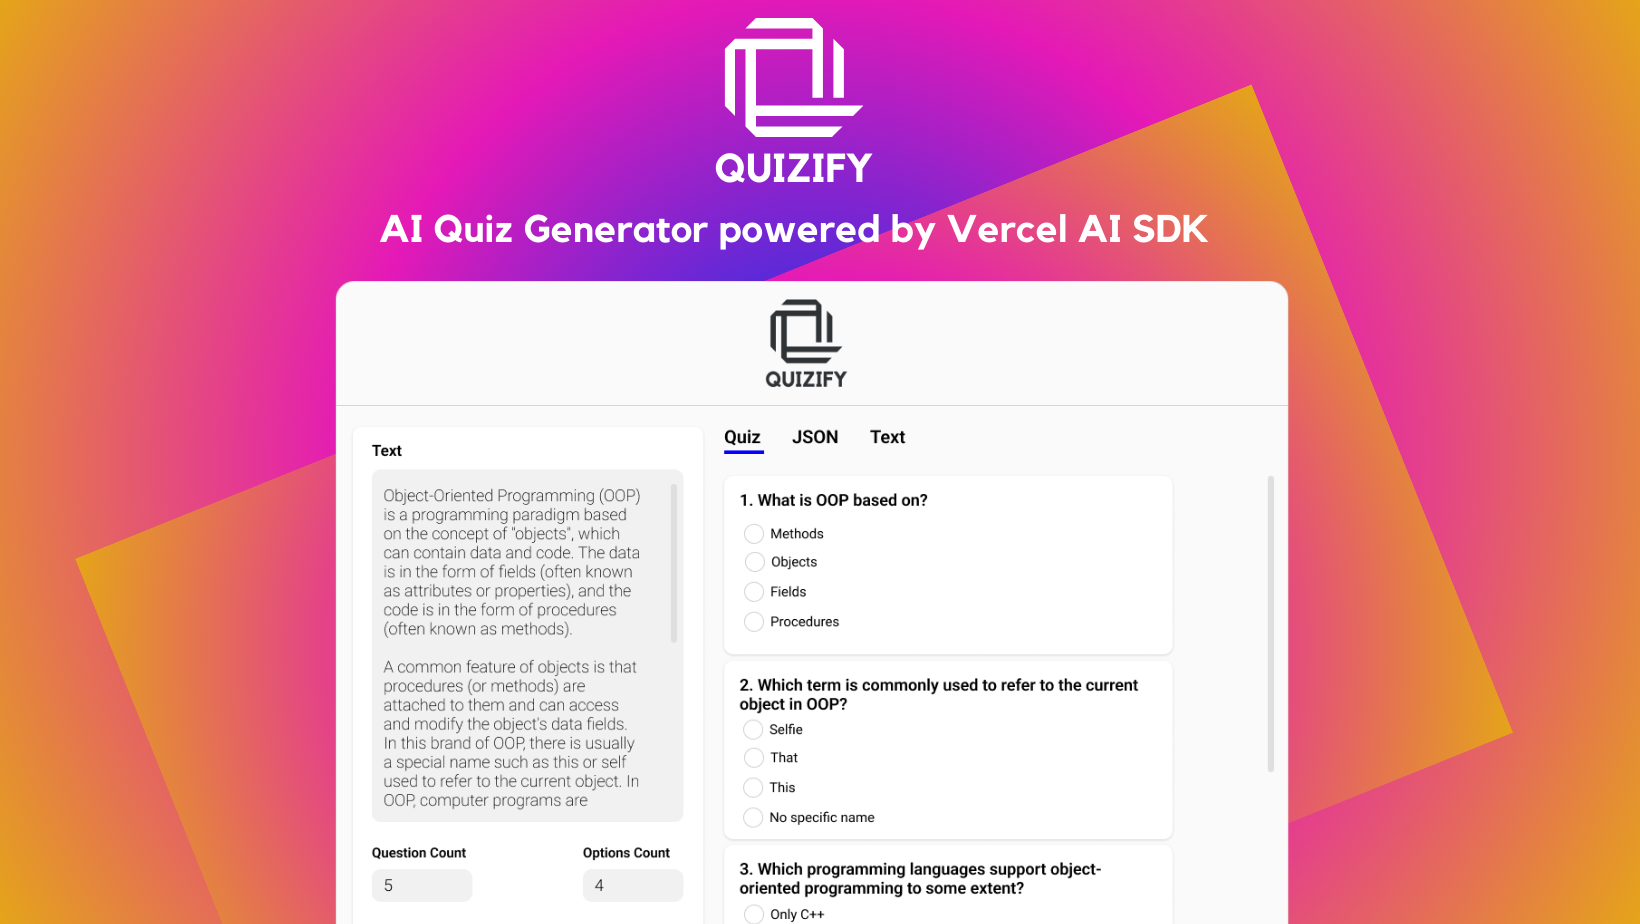
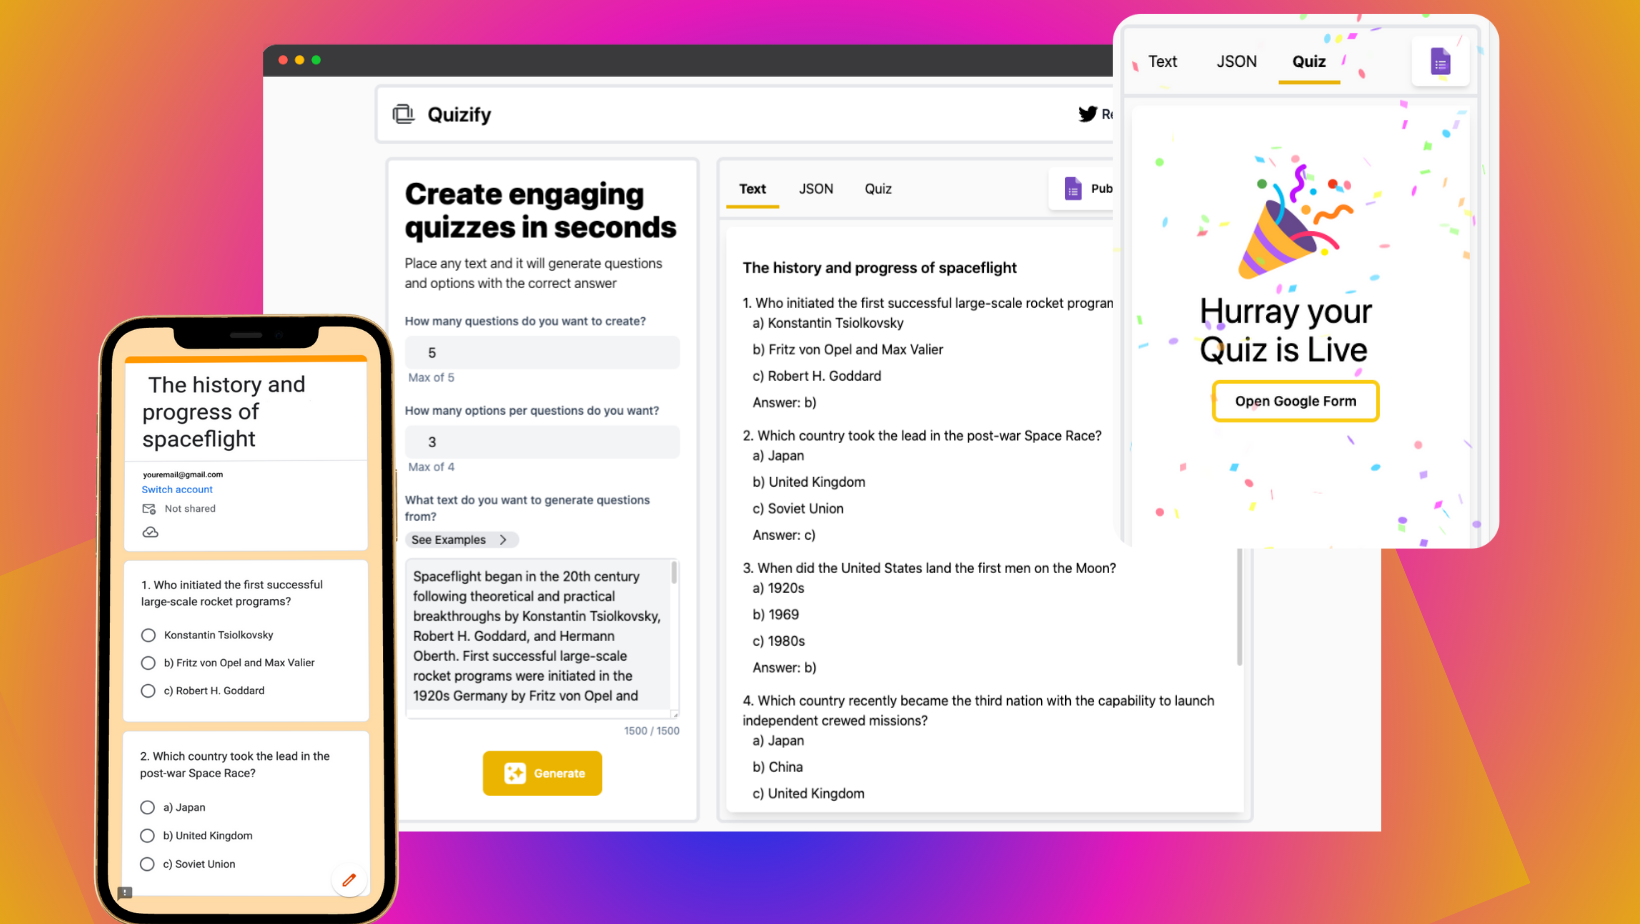
Update marketing image, Form flow improvement

diff --git a/src/routes/+page.svelte b/src/routes/+page.svelte
@@ -3,6 +3,7 @@
   import AiEditorIcon from '$lib/images/ai-editor.svg?raw';
   import TadaIcon from '$lib/images/tada.png';
   import QuizIcon from '$lib/images/quiz.svg?raw';
+  import CopyIcon from '$lib/images/copy.svg?raw';
   import CodeMirror from 'svelte-codemirror-editor';
   import { javascript } from '@codemirror/lang-javascript';
   import { useCompletion } from 'ai/svelte';
@@ -50,9 +51,9 @@
   ];
 
   let templates: Array<Templates> = [
-    { id: TemplateId.oop, text: 'About OOP' },
-    { id: TemplateId.elonMusk, text: 'Knowledge of Elon Musk' },
     { id: TemplateId.spaceFlight, text: 'About Spaceflight' },
+    { id: TemplateId.oop, text: 'On OOP' },
+    { id: TemplateId.elonMusk, text: 'Elon Musk' },
     { id: TemplateId.election, text: 'Nigerian 2023 Election' },
     { id: TemplateId.chatGPT, text: 'ChatGPT - AI chat bot' },
   ];
@@ -174,7 +175,7 @@
         <TabContent value={tabs[0].value} index={currentTab}>
           <div
             bind:this={rawDiv}
-            class="container w-full rounded-lg bg-white p-5 shadow-lg"
+            class="container w-full rounded-lg bg-white p-5 shadow-lg relative"
           >
             {#if !rawText.length || !rawText[0].length}
               <p class="font-sans font-bold">Your Generated output:</p>
@@ -188,18 +189,42 @@
                   <p class="font-sans ml-3 mb-2">{text}</p>
                 {/if}
               {/each}
+
+              {#if !$isLoading}
+                <!-- Copy Button -->
+                <button
+                  class="absolute top-2 right-1 p-2 rounded-lg border border-gray-200 hover:bg-gray-200 hover:shadow-2xl transition-shadow ease-in delay-100 flex items-center"
+                  type="button"
+                  on:click={() => {}}
+                >
+                  {@html CopyIcon}
+                  <span>Copy</span>
+                </button>
+              {/if}
             {/if}
           </div>
         </TabContent>
 
         <!-- JSON Tab -->
         <TabContent value={tabs[1].value} index={currentTab}>
-          <CodeMirror
-            value={JSON.stringify(sheetData, null, 2)}
-            lang={javascript()}
-            class="codemirror w-full px-5"
-            editable={false}
-          />
+          <div class="relative">
+            <CodeMirror
+              value={JSON.stringify(sheetData, null, 2)}
+              lang={javascript()}
+              class="codemirror w-full px-5"
+              editable={false}
+            />
+
+            <!-- Copy Button -->
+            <button
+              class="absolute top-2 right-1 p-2 rounded-lg border border-gray-200 hover:bg-gray-200 hover:shadow-2xl transition-shadow ease-in delay-100 flex items-center"
+              type="button"
+              on:click={() => {}}
+            >
+              {@html CopyIcon}
+              <span>Copy</span>
+            </button>
+          </div>
         </TabContent>
 
         <!-- Quizes Tab -->
@@ -208,7 +233,7 @@
             {#if $form.info.title && $form.formId}
               <div class="w-2/3 m-auto flex flex-col items-center mt-10">
                 <img src={TadaIcon} alt="tada icon" width="120" height="120" />
-                <p class="font-sans text-4xl my-3">Hurray your quiz is live</p>
+                <p class="font-sans text-4xl my-3">Hurray your Quiz is Live</p>
                 <a
                   href="https://docs.google.com/forms/d/{$form.formId}"
                   target="_
@@ -237,7 +262,7 @@
 <!-- Mobile Button -->
 <div class="absolute right-5 bottom-5 md:hidden">
   <button
-    class="bg-yellow-500 hover:bg-yellow-700 px-5 py-3 text-sm leading-5 rounded-lg font-semibold text-white flex items-center"
+    class="bg-yellow-500 hover:bg-yellow-700 px-5 py-3 text-sm leading-5 rounded-lg font-semibold text-white flex items-center hover:shadow-2xl transition-shadow ease-in delay-100"
     on:click={() => (openAiEditor = !openAiEditor)}
   >
     {@html AiEditorIcon}

diff --git a/src/routes/Sidebar.svelte b/src/routes/Sidebar.svelte
@@ -1,5 +1,7 @@
 <script lang="ts">
   import AiIcon from '$lib/images/ai.svg?raw';
+  import ArrowRightcon from '$lib/images/arrow-right.svg?raw';
+  import ArrowDownIcon from '$lib/images/arrow-down.svg?raw';
   import type { TemplateId, Templates } from '$lib/types/template';
   import { Circle3 } from 'svelte-loading-spinners';
 
@@ -12,6 +14,8 @@
   export let handleTemplateChange = () => {};
   export let isLoading = false;
   export let hideOnMobile = false;
+
+  let showExamples = false;
 
   $: text = text.length > 1500 ? text.slice(0, 1500) : text;
   $: questions = questions > 5 ? 5 : questions;
@@ -85,6 +89,38 @@
       <p class="mb-2 text-sm font-medium text-slate-700">
         What text do you want to generate questions from?
       </p>
+      <div class="mb-3">
+        <button
+          class="px-2 rounded-full bg-gray-200 w-fit text-sm flex items-center"
+          on:click={() => (showExamples = !showExamples)}
+          type="button"
+        >
+          <span class="mr-3">See Examples</span>
+          {#if showExamples}
+            {@html ArrowDownIcon}
+          {:else}
+            {@html ArrowRightcon}
+          {/if}
+        </button>
+        {#if showExamples}
+          <div class="flex mt-2 w-full justify-start flex-wrap">
+            {#each templates as template}
+              <button
+                class="{templateId === template.id &&
+                  'bg-gray-200'} px-2 py-3 mr-2 rounded-lg w-fit mb-2 border border-gray-200 hover:bg-gray-200 text-sm flex items-center"
+                on:click={() => {
+                  templateId = template.id;
+                  handleTemplateChange();
+                }}
+                type="button"
+              >
+                {template.text}
+              </button>
+            {/each}
+          </div>
+        {/if}
+      </div>
+
       <textarea
         bind:value={text}
         id="sidebar-text"
@@ -102,7 +138,7 @@
         id="generate-form"
         class="{isLoading
           ? 'bg-white border-2 border-gray-300'
-          : 'bg-yellow-500'} hover:bg-yellow-700 px-5 py-2 text-sm leading-5 rounded-lg font-semibold text-white flex items-center"
+          : 'bg-yellow-500'} px-5 py-2 text-sm leading-5 rounded-lg font-semibold text-white flex items-center hover:shadow-2xl transition-shadow ease-in delay-100"
         disabled={isLoading}
         type="submit"
       >

diff --git a/src/routes/GoogleForm.svelte b/src/routes/GoogleForm.svelte
@@ -4,6 +4,7 @@
   import { form, isExporting } from '$lib/stores/forms';
   import { getPostBodyFromQuestion } from '$lib/utils/googleapi';
   import type { QData } from '$lib/types/questions';
+  import { goto } from '$app/navigation';
 
   export let title = 'Some random title';
   export let questions: Array<QData>;
@@ -12,6 +13,7 @@
   let client;
   let access_token = '';
   let auth_token = { access_token: '' };
+  let isFormCreated = false;
 
   // Set the scopes for the API request
   const scopes = [
@@ -95,6 +97,15 @@
   }
 
   async function connectToGoogle() {
+    if (isFormCreated) {
+      const url = `https://docs.google.com/forms/d/${$form.formId}`;
+      if (window !== null) {
+        window?.open(url, '_blank')?.focus();
+      } else {
+        goto(url);
+      }
+      return;
+    }
     if (!questions.length) {
       alert('Hit the Generate button first to get your form content');
       return;
@@ -118,6 +129,7 @@
           await makeFormQuiz();
           await getForm();
           onCompleteExport();
+          isFormCreated = true;
         } catch (error) {
           console.error(
             'Something went wrong in the process, please try again later'
@@ -135,7 +147,7 @@
 
 <button
   id="google-forms"
-  class="bg-white px-5 py-3 text-sm leading-5 rounded-md font-semibold shadow-md text-black flex items-center"
+  class="bg-white px-5 py-3 text-sm leading-5 rounded-md font-semibold shadow-md text-black flex items-center hover:shadow-2xl transition-shadow ease-in delay-100"
   on:click={connectToGoogle}
   disabled={$isExporting}
 >
@@ -152,6 +164,12 @@
       loading="lazy"
       style="color:transparent"
     />
-    <span class="ml-3 hidden md:block">Publish to Google Forms</span>
+    <span class="ml-3 hidden md:block">
+      {#if isFormCreated}
+        View Form
+      {:else}
+        Publish to Google Forms
+      {/if}
+    </span>
   {/if}
 </button>

diff --git a/src/routes/Header.svelte b/src/routes/Header.svelte
@@ -27,7 +27,7 @@
                 ><path
                   d="M24 4.557c-.883.392-1.832.656-2.828.775 1.017-.609 1.798-1.574 2.165-2.724-.951.564-2.005.974-3.127 1.195-.897-.957-2.178-1.555-3.594-1.555-3.179 0-5.515 2.966-4.797 6.045-4.091-.205-7.719-2.165-10.148-5.144-1.29 2.213-.669 5.108 1.523 6.574-.806-.026-1.566-.247-2.229-.616-.054 2.281 1.581 4.415 3.949 4.89-.693.188-1.452.232-2.224.084.626 1.956 2.444 3.379 4.6 3.419-2.07 1.623-4.678 2.348-7.29 2.04 2.179 1.397 4.768 2.212 7.548 2.212 9.142 0 14.307-7.721 13.995-14.646.962-.695 1.797-1.562 2.457-2.549z"
                 /></svg
-              > <span class="ml-1 hidden md:block">Contact Me</span></a
+              > <span class="ml-1 hidden md:block">Reach out</span></a
             >
           </li>
           <li>
